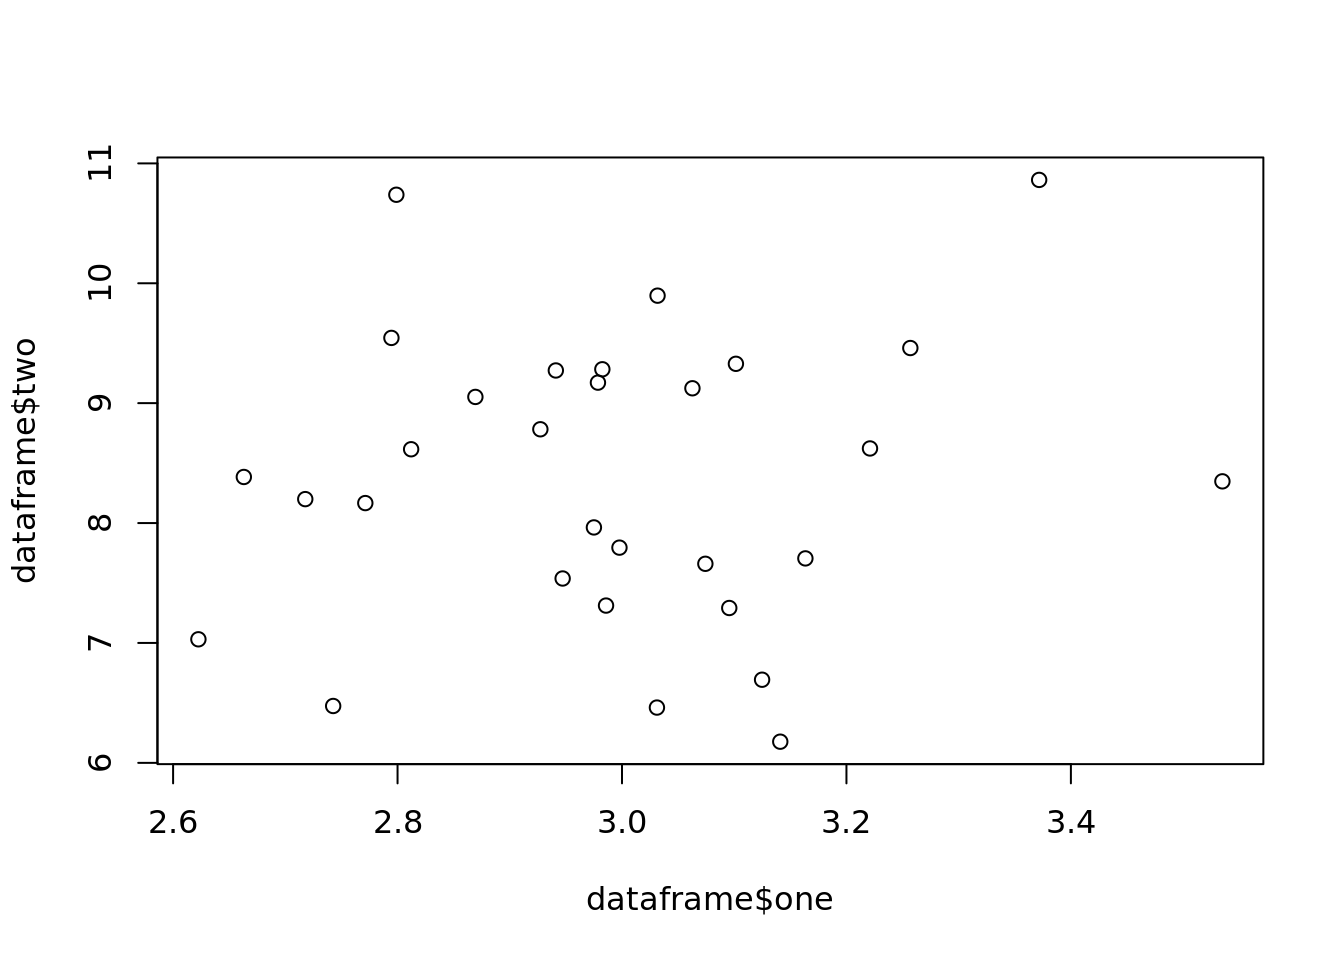
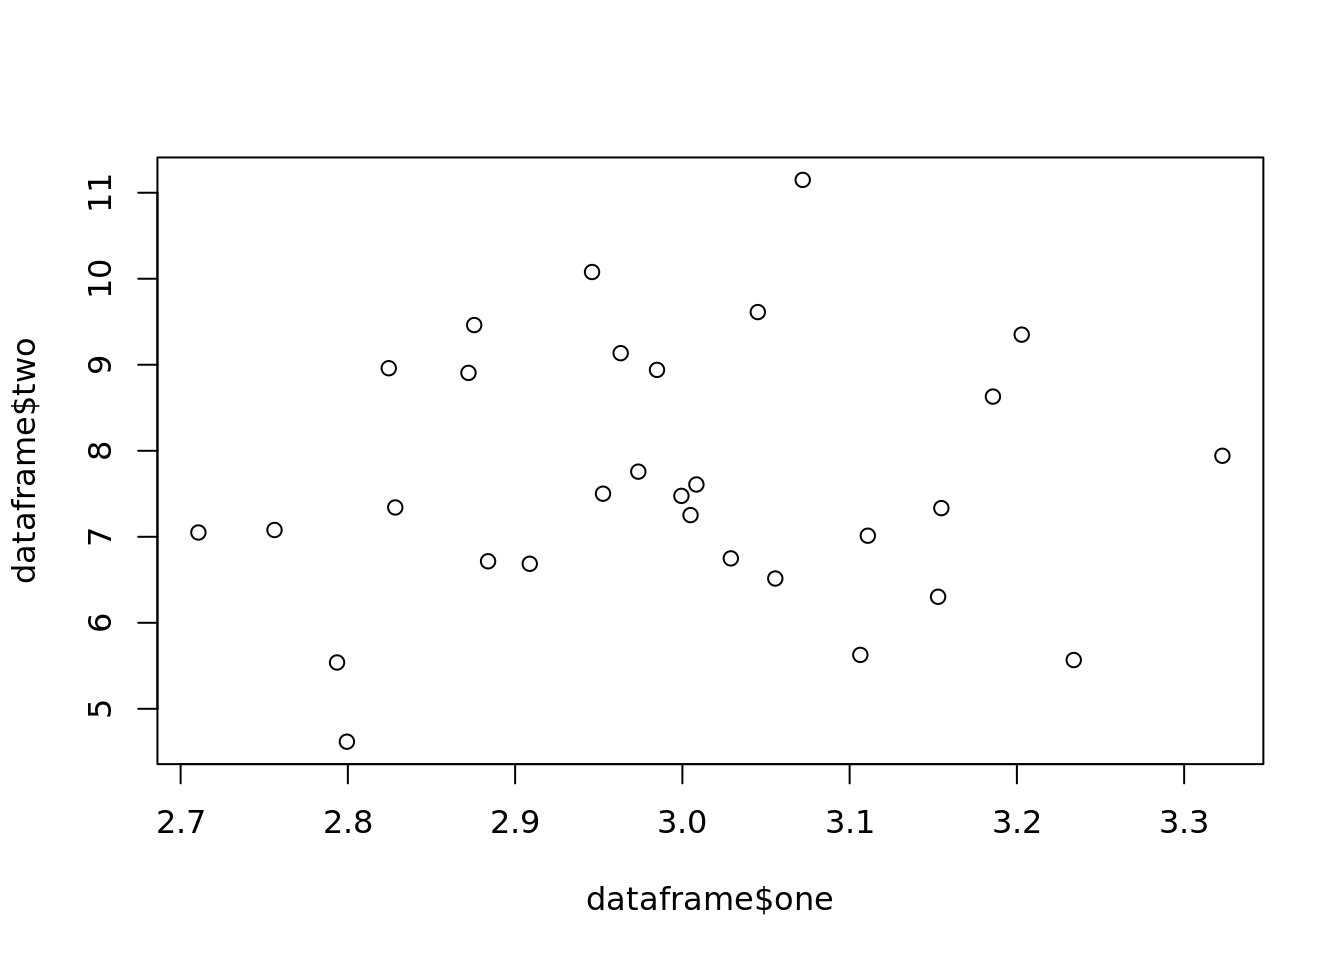
added .Rprofile to include the mirror link and also render.R script to render the website from the command line

diff --git a/docs/dplyr.html b/docs/dplyr.html
@@ -430,86 +430,6 @@ div.tocify {
 <div id="first-install-dplyr-and-call-the-library" class="section level2">
 <h2>first install dplyr and call the library:</h2>
 <pre class="r"><code>install.packages(&quot;dplyr&quot;)</code></pre>
-<pre><code>## --- Please select a CRAN mirror for use in this session ---
-## Secure CRAN mirrors 
-## 
-##  1: 0-Cloud [https]
-##  2: Australia (Canberra) [https]
-##  3: Australia (Melbourne 1) [https]
-##  4: Australia (Melbourne 2) [https]
-##  5: Australia (Perth) [https]
-##  6: Austria [https]
-##  7: Brazil (BA) [https]
-##  8: Brazil (PR) [https]
-##  9: Brazil (RJ) [https]
-## 10: Brazil (SP 1) [https]
-## 11: Brazil (SP 2) [https]
-## 12: Bulgaria [https]
-## 13: Canada (MB) [https]
-## 14: Chile (Santiago) [https]
-## 15: China (Beijing 2) [https]
-## 16: China (Hefei) [https]
-## 17: China (Hong Kong) [https]
-## 18: China (Guangzhou) [https]
-## 19: China (Lanzhou) [https]
-## 20: China (Nanjing) [https]
-## 21: China (Shanghai 1) [https]
-## 22: China (Shanghai 2) [https]
-## 23: Costa Rica [https]
-## 24: Denmark [https]
-## 25: East Asia [https]
-## 26: Ecuador (Cuenca) [https]
-## 27: Ecuador (Quito) [https]
-## 28: Estonia [https]
-## 29: France (Lyon 1) [https]
-## 30: France (Lyon 2) [https]
-## 31: France (Marseille) [https]
-## 32: France (Montpellier) [https]
-## 33: Germany (Erlangen) [https]
-## 34: Germany (Leipzig) [https]
-## 35: Germany (Göttingen) [https]
-## 36: Germany (Münster) [https]
-## 37: Germany (Regensburg) [https]
-## 38: Greece [https]
-## 39: Hungary [https]
-## 40: Iceland [https]
-## 41: India [https]
-## 42: Indonesia (Jakarta) [https]
-## 43: Iran [https]
-## 44: Italy (Milano) [https]
-## 45: Italy (Padua) [https]
-## 46: Japan (Tokyo) [https]
-## 47: Korea (Gyeongsan-si) [https]
-## 48: Korea (Seoul 1) [https]
-## 49: Korea (Ulsan) [https]
-## 50: Malaysia [https]
-## 51: Mexico (Mexico City) [https]
-## 52: Morocco [https]
-## 53: Netherlands [https]
-## 54: Norway [https]
-## 55: Philippines [https]
-## 56: Russia (Moscow) [https]
-## 57: South Africa (Johannesburg) [https]
-## 58: Spain (A Coruña) [https]
-## 59: Spain (Madrid) [https]
-## 60: Sweden (Borås) [https]
-## 61: Sweden (Umeå) [https]
-## 62: Switzerland [https]
-## 63: Taiwan (Taipei) [https]
-## 64: Turkey (Denizli) [https]
-## 65: Turkey (Istanbul) [https]
-## 66: Turkey (Mersin) [https]
-## 67: UK (Bristol) [https]
-## 68: UK (London 1) [https]
-## 69: USA (IA) [https]
-## 70: USA (KS) [https]
-## 71: USA (MI) [https]
-## 72: USA (OH) [https]
-## 73: USA (OR) [https]
-## 74: USA (TN) [https]
-## 75: USA (TX 1) [https]
-## 76: Uruguay [https]
-## 77: (other mirrors)</code></pre>
 <pre><code>## Updating HTML index of packages in &#39;.Library&#39;</code></pre>
 <pre><code>## Making &#39;packages.html&#39; ... done</code></pre>
 <pre class="r"><code>library(&quot;dplyr&quot;)</code></pre>

diff --git a/docs/index.html b/docs/index.html
@@ -432,28 +432,28 @@ third_column &lt;- runif(30, 1, 8)
 dataframe &lt;- data.frame(first_column, second_column, third_column)
 head(dataframe, 5)</code></pre>
 <pre><code>##   first_column second_column third_column
-## 1     2.717765      8.199590     6.630948
-## 2     3.095585      7.291464     5.807192
-## 3     3.220983      8.622157     2.658472
-## 4     3.074277      7.660146     1.013958
-## 5     3.256930      9.459837     5.174523</code></pre>
+## 1     3.110867      7.012400     2.039686
+## 2     3.071947     11.149186     3.742581
+## 3     2.984826      8.940409     6.884195
+## 4     3.185676      8.630060     4.855047
+## 5     3.106389      5.626794     6.691935</code></pre>
 <p>We can change the name to the dataframe columns</p>
 <pre class="r"><code>names(dataframe) &lt;- c(&quot;one&quot;, &quot;two&quot;, &quot;three&quot;)
 head(dataframe, 5)</code></pre>
-<pre><code>##        one      two    three
-## 1 2.717765 8.199590 6.630948
-## 2 3.095585 7.291464 5.807192
-## 3 3.220983 8.622157 2.658472
-## 4 3.074277 7.660146 1.013958
-## 5 3.256930 9.459837 5.174523</code></pre>
+<pre><code>##        one       two    three
+## 1 3.110867  7.012400 2.039686
+## 2 3.071947 11.149186 3.742581
+## 3 2.984826  8.940409 6.884195
+## 4 3.185676  8.630060 4.855047
+## 5 3.106389  5.626794 6.691935</code></pre>
 <p>Now we could select specific rows or columns by the bracket operator</p>
 <p>dataframe[rows, columns]</p>
 <pre class="r"><code>dataframe[1:4,1:2]</code></pre>
-<pre><code>##        one      two
-## 1 2.717765 8.199590
-## 2 3.095585 7.291464
-## 3 3.220983 8.622157
-## 4 3.074277 7.660146</code></pre>
+<pre><code>##        one       two
+## 1 3.110867  7.012400
+## 2 3.071947 11.149186
+## 3 2.984826  8.940409
+## 4 3.185676  8.630060</code></pre>
 <p>we could even plot one against each other</p>
 <pre class="r"><code>plot(dataframe$one, dataframe$two)</code></pre>
 <p><img src="index_files/figure-html/unnamed-chunk-6-1.png" width="672" /></p>
